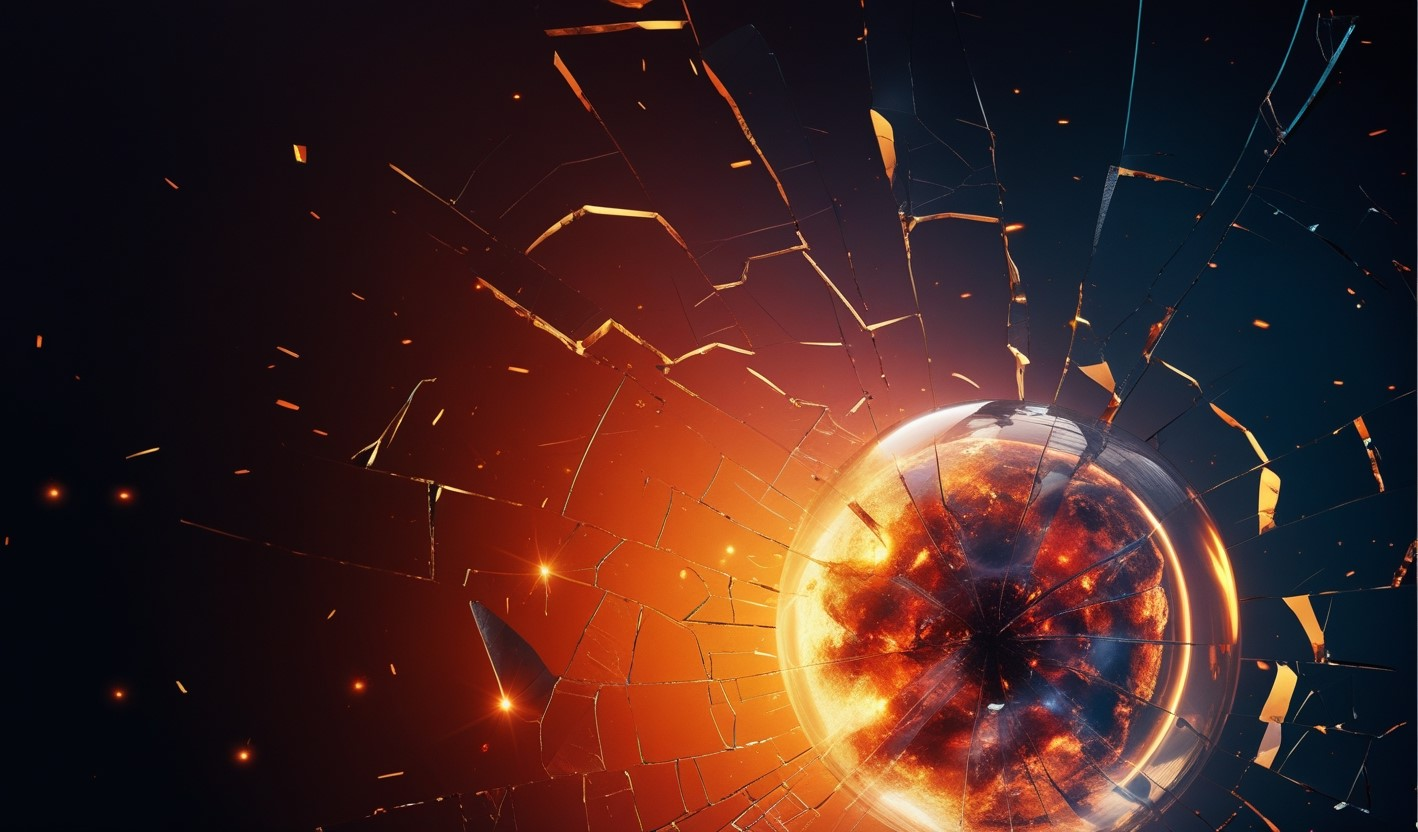
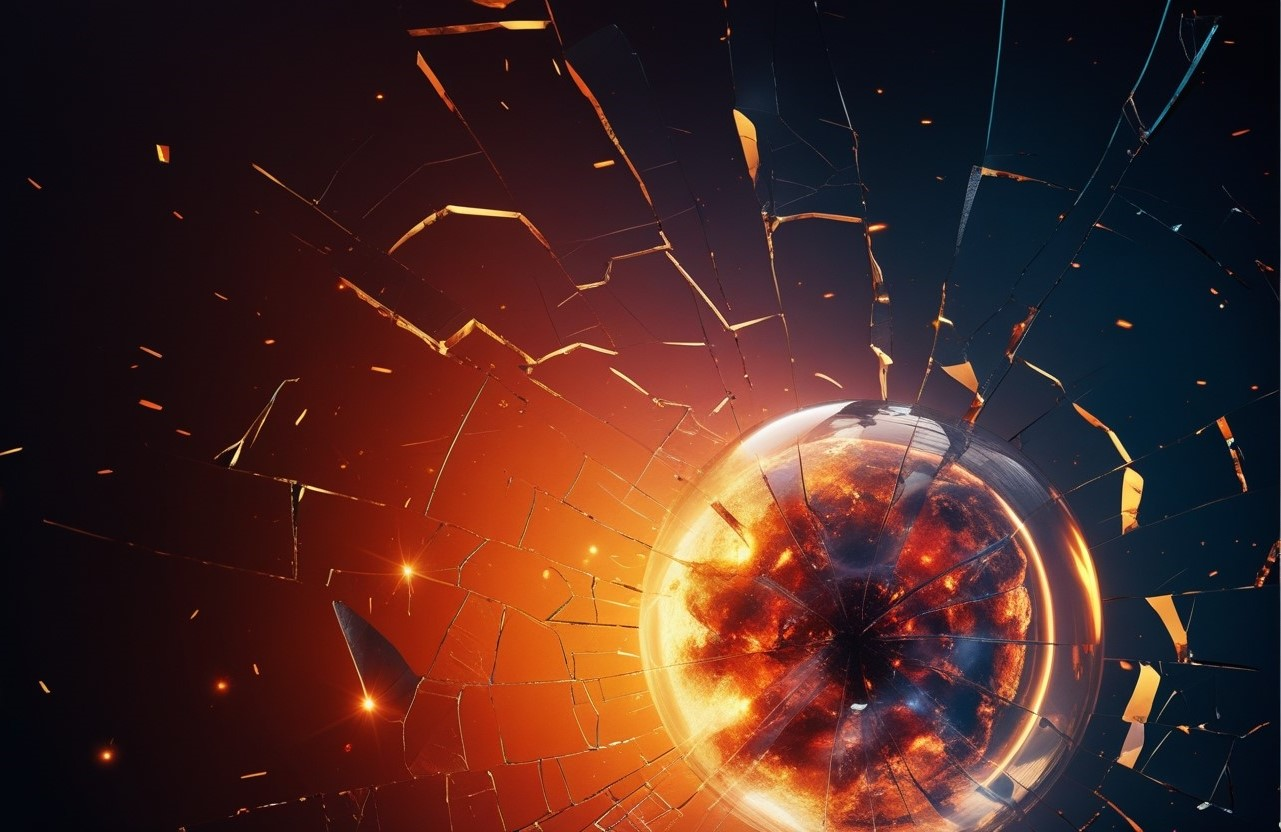
bugs, work images

diff --git a/app/page.js b/app/page.js
@@ -49,35 +49,39 @@ export default function Home() {
                   />
           </span><br/>
           </h1>
-          <motion.p
-          variants={fadeIn('down',0.3)}
-          initial='hidden'
-          animate='show'
-          
-          >
-          Choosing colors or typography for your website?<br/>
-          Use the Toolbar below to realize your choices.
-          </motion.p>
+            <motion.p
+            variants={fadeIn('down',0.3)}
+            initial='hidden'
+            animate='show'
+            className="!xl:text-left xl:max-w-[500px] "
+            >
+            Step into my world of creativity—learn my story,
+            dive into my work,
+            and let’s connect to craft something extraordinary together.
+            </motion.p>
 
-          
-
-          <div className="flex justify-center xl:hidden relative">
-              <ProjectsBtn/>
+          {/* not work */}
+          <div className="flex justify-center xl:hidden ">
+              <ProjectsBtn/> 
           </div>
+
+          
           <motion.div
             variants={fadeIn('down',0.6)}
             initial='hidden'
             animate='show'
-            
             className="hidden xl:flex"
             >
               <ProjectsBtn/>
           </motion.div>
+
+         
         </div>
+        
 
         <div className="w-[1200px] h-full absolute right-0 bottom-0 ">
         <div className="bg-none xl:bg-explosion xl:bg-cover xl:bg-right xl:bg-no-repeat w-full
-        h-full absolute mix-blend-color-dodge translate-z-0 ml-2"></div>
+        h-full absolute mix-blend-color-dodge translate-z-0 ml-12"></div>
 
         <div>
           <ParticlesContainer/>

diff --git a/app/components/WorkSlider.js b/app/components/WorkSlider.js
@@ -7,19 +7,19 @@ export const workSlider = {
       images: [
         {
           title: 'title',
-          path: '/thumb1.jpg',
+          path: '/1.png',
         },
         {
           title: 'title',
-          path: '/thumb2.jpg',
+          path: '/2.png',
         },
         {
           title: 'title',
-          path: '/thumb3.jpg',
+          path: '/3.png',
         },
         {
           title: 'title',
-          path: '/thumb4.jpg',
+          path: '/4.png',
         },
       ],
     },
@@ -27,19 +27,19 @@ export const workSlider = {
       images: [
         {
           title: 'title',
-          path: '/thumb4.jpg',
+          path: '/5.png',
         },
         {
           title: 'title',
-          path: '/thumb1.jpg',
+          path: '/6.png',
         },
         {
           title: 'title',
-          path: '/thumb2.jpg',
+          path: '/7.png',
         },
         {
           title: 'title',
-          path: '/thumb3.jpg',
+          path: '/8.png',
         },
       ],
     },

diff --git a/app/components/ProjectsBtn.js b/app/components/ProjectsBtn.js
@@ -7,12 +7,13 @@ import { HiArrowRight } from 'react-icons/hi2'
 const ProjectsBtn = () => {
   return (
     <div className='mx-auto xl:mx-0 my-5'>
-      <Link href='/work' className='relative w-[185px] h-[185px] flex justify-center items-center bg-circleStar bg-cover bg-center bg-no-repeat group'>
+      <Link href='/work' className='relative w-[185px] h-[185px] flex justify-center items-center bg-circleStar bg-cover bg-center bg-no-repeat group' >
         <Image 
         src={'/rounded-text.png'}
         width={141}
         height={148}
         alt='.'
+
         className='animate-spin-slow w-full h-full max-w-[141px] max-h-[148px] cursor-pointer'
         />
         <HiArrowRight className='absolute text-[#9d0c2e] text-4xl group-hover:translate-x-2 transition-all duration-300'/>

diff --git a/app/contact/page.js b/app/contact/page.js
@@ -12,10 +12,10 @@ const page = () => {
 
     emailjs
       .sendForm(
-        'service_sy7uveh', // Replace with your EmailJS service ID
-        'template_zt6i1gb', // Replace with your EmailJS template ID
+        'service_sy7uveh', // EmailJS service ID
+        'template_zt6i1gb', // EmailJS template ID
         formRef.current,
-        'MB0zaOz-ahk-D-D5D' // Replace with your EmailJS user ID
+        'MB0zaOz-ahk-D-D5D' // EmailJS user ID
       )
       .then(
         (result) => {

diff --git a/app/work/page.js b/app/work/page.js
@@ -34,7 +34,7 @@ const page = () => {
       <div className='container mx-auto'>
         <div className='flex flex-col xl:flex-row gap-x-8'>
 
-          <div className='text-center  flex xl:w-[30vw] flex-col lg-text-left  xl:mb-4 mt-2'>
+          <div className='text-center  flex xl:w-[30vw] flex-col lg-text-left  xl:mb-4 mt-6'>
             <motion.h2
             variants={fadeIn('down',0.3)}
             initial='hidden'
